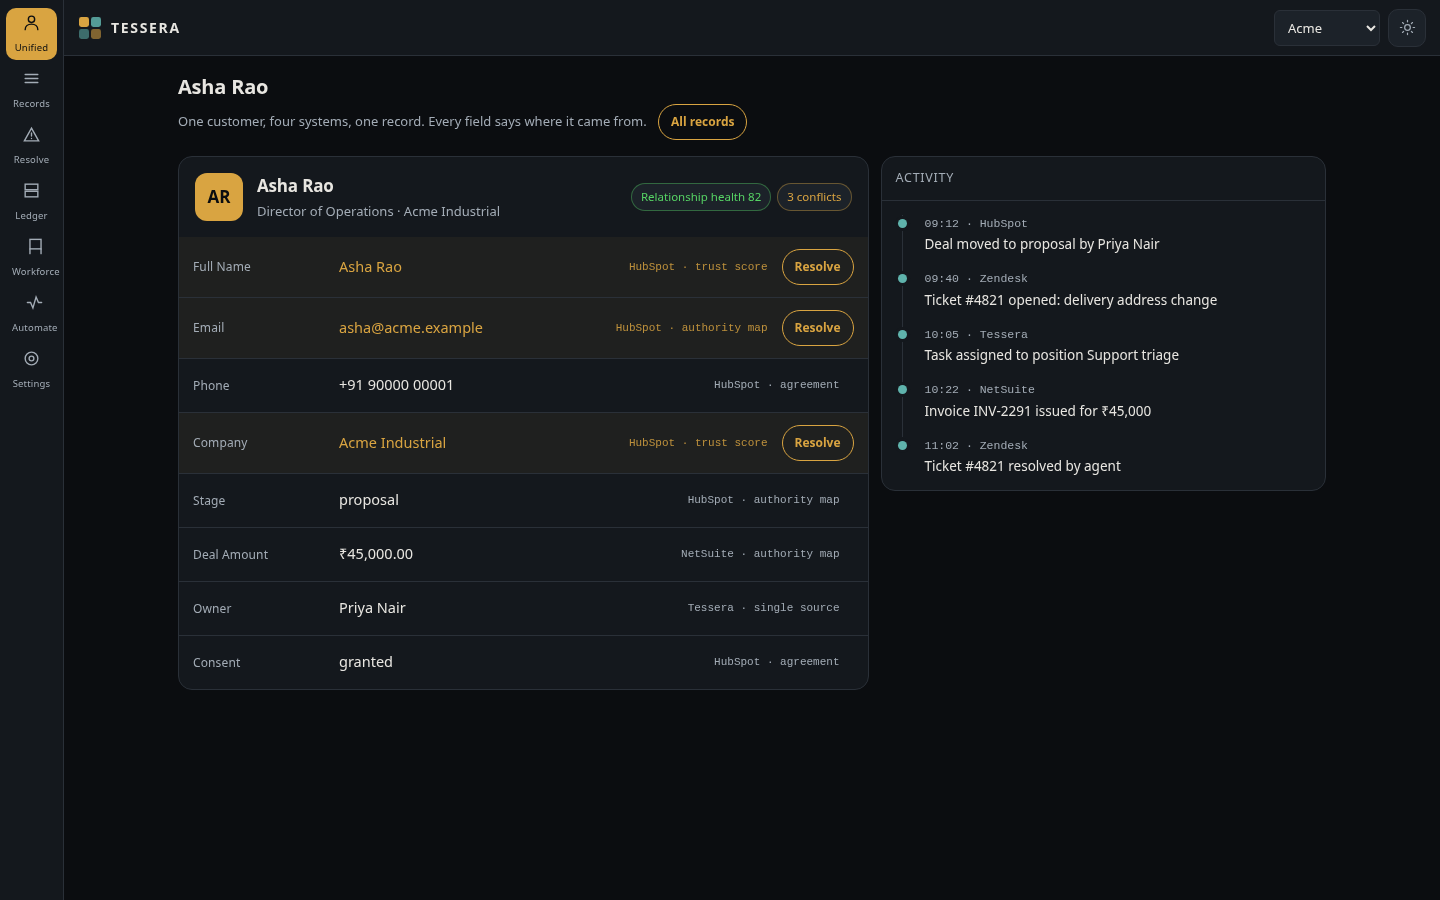
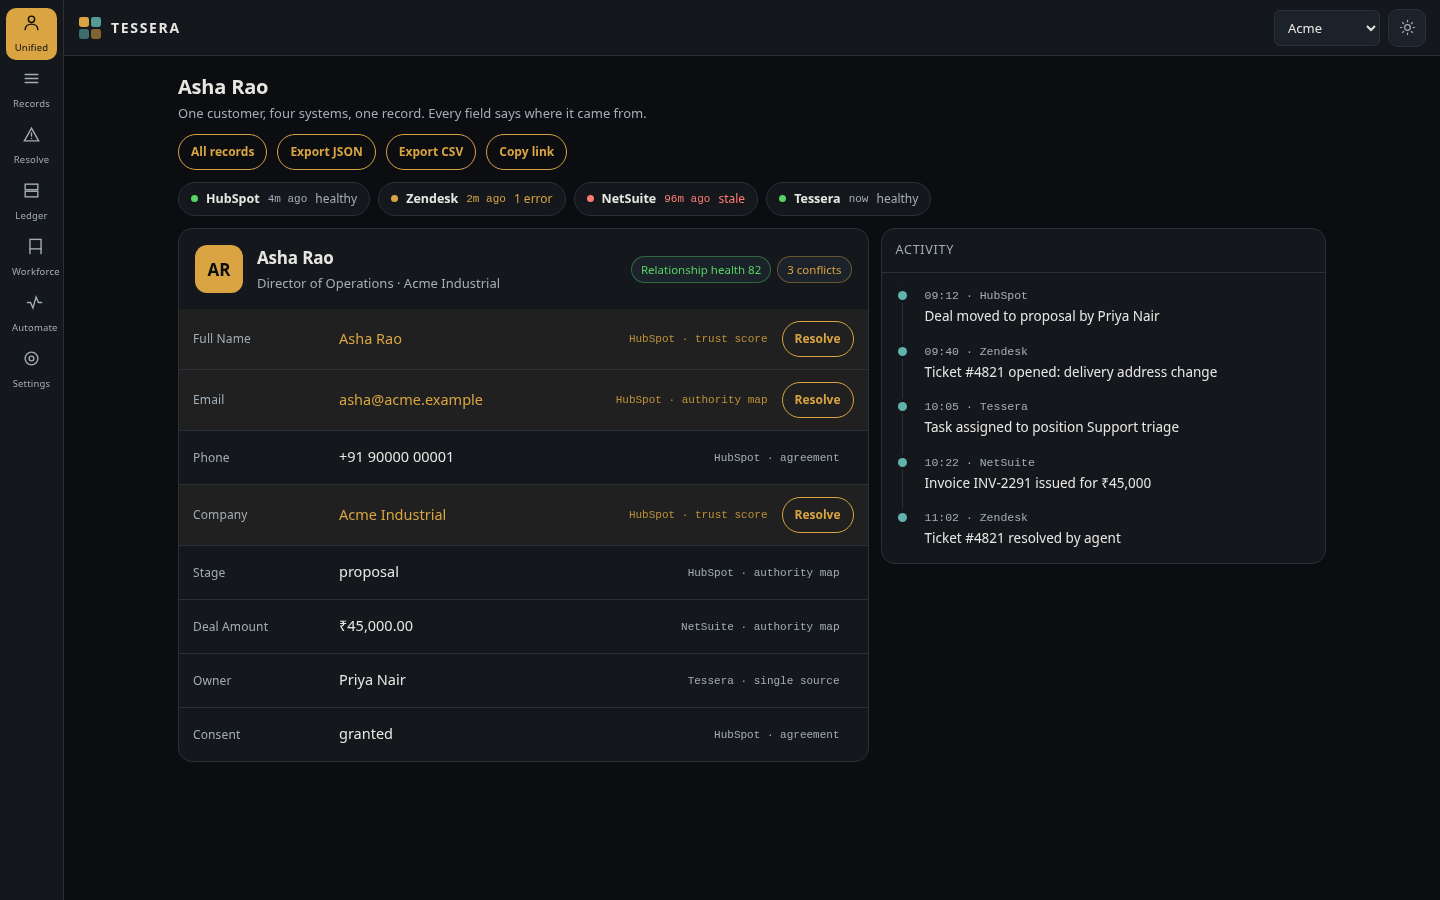
connector health and standing rules
- Connector strip above every record: last sync, error count, staleness, coloured
  green/amber/red. One row, and it is the row an operator looks at first.
- Always on any candidate turns a repeated decision into a standing rule applied
  to every record, listed on the Resolve screen, written to the ledger as
  rule.saved. Precedence: this record's choice, then your rule, then the engine.

Moved the record actions onto their own row - they were crowding the subtitle.

diff --git a/index.html b/index.html
@@ -82,6 +82,14 @@ button{font:inherit;color:inherit;background:none;border:0;cursor:pointer}
 .card .body{padding:14px}
 
 /* record head */
+.strip{display:flex;gap:8px;flex-wrap:wrap;margin-bottom:var(--gap)}
+.conn{display:inline-flex;align-items:center;gap:8px;padding:7px 12px;border-radius:999px;
+  border:1px solid var(--line);background:var(--surface);font-size:12px;color:var(--muted)}
+.conn b{color:var(--text);font-weight:600;font-size:12.5px}
+.conn .dot{width:7px;height:7px;border-radius:50%;background:var(--ok)}
+.conn.warn .dot{background:var(--accent)} .conn.warn{color:var(--accent)}
+.conn.bad .dot{background:var(--danger)} .conn.bad{color:var(--danger)}
+.conn time{font-family:var(--mono);font-size:11px}
 .record{display:flex;gap:14px;align-items:center;padding:16px}
 .avatar{width:48px;height:48px;border-radius:12px;background:var(--accent);color:var(--accent-ink);
   display:grid;place-items:center;font-weight:650;font-size:17px;flex:0 0 auto}
@@ -324,11 +332,15 @@ a{color:var(--accent)}
     <!-- UNIFIED ---------------------------------------------------------- -->
     <section class="view" id="unified" data-active>
       <h1 id="recordName">Asha Rao</h1>
-      <p class="sub">One customer, four systems, one record. Every field says where it came from.
-        <button class="rowaction" id="backToList" style="margin-left:8px">All records</button>
-        <button class="rowaction" id="exportJson" style="margin-left:6px">Export JSON</button>
-        <button class="rowaction" id="exportCsv" style="margin-left:6px">Export CSV</button>
-        <button class="rowaction" id="copyLink" style="margin-left:6px">Copy link</button></p>
+      <p class="sub">One customer, four systems, one record. Every field says where it came from.</p>
+      <div class="row" style="margin:-6px 0 12px">
+        <button class="rowaction" id="backToList">All records</button>
+        <button class="rowaction" id="exportJson">Export JSON</button>
+        <button class="rowaction" id="exportCsv">Export CSV</button>
+        <button class="rowaction" id="copyLink">Copy link</button>
+      </div>
+
+      <div class="strip" id="connectors" aria-label="Connected systems"></div>
 
       <div class="grid2">
         <div class="card">
@@ -398,6 +410,7 @@ a{color:var(--accent)}
         <button class="btn primary" id="resolveAll">Resolve all with the engine's rule</button>
         <span class="note" id="conflictSummary"></span>
       </div>
+      <div id="rulesBox"></div>
       <div id="conflictList"></div>
     </section>
 
@@ -572,11 +585,21 @@ function canonicalJSON(value) {
 
 /* ---- seed data: two systems that disagree ------------------------------- */
 const NODES = {
-  hubspot: { id: "hubspot", label: "HubSpot", kind: "sales", trust: 0.82, authority: { email: "authority", stage: "authority" } },
-  zendesk: { id: "zendesk", label: "Zendesk", kind: "support", trust: 0.61, authority: {} },
-  netsuite:{ id: "netsuite", label: "NetSuite", kind: "erp", trust: 0.74, authority: { amount_minor: "authority" } },
-  native:  { id: "native", label: "Tessera", kind: "native", trust: 0.90, authority: {} },
+  hubspot: { id: "hubspot", label: "HubSpot", kind: "sales", trust: 0.82, authority: { email: "authority", stage: "authority" },
+             lastSync: 4, errors: 0 },
+  zendesk: { id: "zendesk", label: "Zendesk", kind: "support", trust: 0.61, authority: {},
+             lastSync: 2, errors: 1 },
+  netsuite:{ id: "netsuite", label: "NetSuite", kind: "erp", trust: 0.74, authority: { amount_minor: "authority" },
+             lastSync: 96, errors: 0 },
+  native:  { id: "native", label: "Tessera", kind: "native", trust: 0.90, authority: {},
+             lastSync: 0, errors: 0 },
 };
+
+function connectorState(node) {
+  if (node.errors > 0) return { state: "warn", label: `${node.errors} error${node.errors > 1 ? "s" : ""}` };
+  if (node.lastSync > 60) return { state: "bad", label: "stale" };
+  return { state: "ok", label: "healthy" };
+}
 
 const RECORDS = [
   { id: "c1", name: "Asha Rao", role: "Director of Operations", company: "Acme Industrial", health: 82,
@@ -775,6 +798,7 @@ const DEFAULT_STATE = {
   view: { filter: "all", sort: "name" },
   savedViews: {},
   customRecords: [],
+  rules: {},             // field -> node, applied to every record
   resolved: {},          // "recordId|field" -> chosen node
   ledger: null,          // [{seq, action, actor, payload, hash, prev}]
   theme: "dark",
@@ -866,16 +890,24 @@ function currentValue(field) {
   const candidates = RECORD[field];
   const resolution = resolveField(field, candidates, Object.fromEntries(
     Object.entries(candidates).map(([node]) => [node, NODES[node].authority[field] || "bidirectional"])));
+  // order: a choice for this record, then your standing rule, then the engine
   const chosen = state.resolved[state.selected + "|" + field];
   if (chosen && candidates[chosen] !== undefined) {
     return { value: candidates[chosen], node: chosen, rule: "chosen by you" };
+  }
+  const rule = (state.rules || {})[field];
+  if (rule && candidates[rule] !== undefined) {
+    return { value: candidates[rule], node: rule, rule: "your standing rule" };
   }
   return { value: resolution.value, node: resolution.node, rule: resolution.rule };
 }
 
 function isConflict(field) {
   const values = new Set(Object.values(RECORD[field]).map(v => canonicalJSON(v)));
-  return values.size > 1 && !state.resolved[state.selected + "|" + field];
+  if (values.size <= 1) return false;
+  if (state.resolved[state.selected + "|" + field]) return false;
+  const rule = (state.rules || {})[field];
+  return !(rule && RECORD[field][rule] !== undefined);
 }
 
 function formatValue(field, value) {
@@ -990,6 +1022,20 @@ function renderFields() {
   chip.className = count ? "chip warn" : "chip ok";
 }
 
+function renderConnectors() {
+  $("#connectors").innerHTML = Object.values(NODES).map(node => {
+    const status = connectorState(node);
+    const ago = node.lastSync === 0 ? "now" : `${node.lastSync}m ago`;
+    return `<span class="conn ${status.state === "ok" ? "" : status.state}"
+      title="${node.label}: last sync ${ago}, ${node.errors} error(s)">
+      <span class="dot" aria-hidden="true"></span>
+      <b>${node.label}</b>
+      <time>${ago}</time>
+      <span>${status.label}</span>
+    </span>`;
+  }).join("");
+}
+
 function renderTimeline() {
   const host = $("#timeline");
   host.innerHTML = ACTIVITY.map(item => `
@@ -1042,6 +1088,25 @@ async function resolveAll() {
   });
 }
 
+function renderRules() {
+  const rules = state.rules || {};
+  const fields = Object.keys(rules);
+  const box = $("#rulesBox");
+  if (!fields.length) { box.innerHTML = ""; return; }
+  box.innerHTML = `<div class="item" style="margin-bottom:12px">
+    <div class="top"><b>Your standing rules</b><span class="chip">applied to every record</span></div>
+    ${fields.map(field => `<div class="row" style="margin:6px 0">
+      <span class="mono">${field.replace(/_/g, " ")}</span>
+      <span class="chip ok">always ${NODES[rules[field]].label}</span>
+      <button class="btn small ghost" data-unrule="${field}">Remove</button>
+    </div>`).join("")}
+  </div>`;
+  $$("[data-unrule]", box).forEach(button => button.onclick = () => {
+    delete state.rules[button.dataset.unrule];
+    save(); renderAll(); toast("Rule removed - the engine decides again");
+  });
+}
+
 function renderConflicts() {
   const host = $("#conflictList");
   const fields = Object.keys(RECORD).filter(isConflict);
@@ -1076,6 +1141,7 @@ function renderConflicts() {
           <span class="chip ${isCurrent ? "ok" : "warn"}">${isCurrent ? "current" : "changes"}</span>
           <span class="mono">${NODES[node].label} · trust ${NODES[node].trust.toFixed(2)}</span>
           <button class="btn small" data-pick="${field}|${node}">${isCurrent ? "Keep" : "Change to this"}</button>
+          <button class="btn small ghost" data-always="${field}|${node}" title="Use this system for this field on every record">Always</button>
         </div>`;
       }).join("")}
       <div class="note">The engine would take <b>${NODES[resolution.node].label}</b> by ${resolution.rule}.</div>
@@ -1085,6 +1151,23 @@ function renderConflicts() {
     btn.onclick = () => {
       const [field, node] = btn.dataset.pick.split("|");
       resolveFieldTo(field, node);
+    };
+  });
+  $$("[data-always]", host).forEach(btn => {
+    btn.onclick = async () => {
+      const [field, node] = btn.dataset.always.split("|");
+      const before = { ...(state.rules || {}) };
+      state.rules = { ...(state.rules || {}), [field]: node };
+      save();
+      await appendEvent("rule.saved", "human", { field, source: node });
+      renderAll();
+      toast(`Rule saved: ${field.replace(/_/g, " ")} always from ${NODES[node].label}`, async () => {
+        state.rules = before;
+        save();
+        await appendEvent("rule.removed", "human", { field });
+        renderAll();
+        toast("Rule removed");
+      });
     };
   });
 }
@@ -1215,8 +1298,8 @@ function renderAll() {
   $("#recordSubtitle").textContent = `${record.role} · ${record.company}`;
   $("#recordAvatar").textContent = record.name.split(" ").map(p => p[0]).join("").slice(0, 2);
   $("#healthChip").textContent = `Relationship health ${record.health}`;
-  renderRecords();
-  renderFields(); renderTimeline(); renderConflicts(); renderLedger(); renderSeats();
+  renderRecords(); renderConnectors();
+  renderFields(); renderTimeline(); renderRules(); renderConflicts(); renderLedger(); renderSeats();
   renderRouting(); renderWorkflows();
   $("#storageNote").textContent =
     "Preferences and the demo ledger are stored in this browser only (localStorage). Clearing site data resets them.";

diff --git a/ENHANCEMENTS.md b/ENHANCEMENTS.md
@@ -16,9 +16,9 @@ Ordered by what a person would notice first.
 | 3 | ~~**Bulk resolve**~~ — apply one rule to every conflict of the same kind | **Shipped in 1.3.0.** One button, engine's rule, undoable | done |
 | 4 | ~~**Field history popover**~~ — click any value, see every write with actor and time | **Shipped in 1.1.0.** The ledger is the differentiator; hiding it behind a tab wasted it | done |
 | 5 | ~~**Conflict preview before merge**~~ — each candidate is marked **current** or **changes**, shipped in 1.5.0 | Turns a guess into a decision | done |
-| 6 | **Connector status strip** — per system: last sync, error count, staleness | The one screen an operator actually needs at 9am | S |
+| 6 | ~~**Connector status strip**~~ — last sync, error count and staleness per system, shipped in 1.6.0 | The one screen an operator actually needs at 9am | done |
 | 7 | ~~**CSV import with dry run**~~ — paste or choose a file, auto-mapped columns, ready/rejected counts, one-press rollback, shipped in 1.5.0 | The single most requested feature of every CRM migration | done |
-| 8 | **Saved resolver rules** — "always take NetSuite for amounts" as a stored policy | Repeated decisions should become policy, not habit | M |
+| 8 | ~~**Saved resolver rules**~~ — an **Always** button on any candidate, applied to every record, shipped in 1.6.0 | Repeated decisions should become policy, not habit | done |
 | 9 | ~~**Export the unified record**~~ — JSON and CSV shipped in 1.4.0. **Printable one-pager** still open | People need to send the record to somebody who is not in the app | S |
 | 10 | **Keyboard-first command palette** — `⌘K` with actions, not just navigation | The power users are the ones who will keep it open | S |
 | 11 | ~~**Deep links**~~ — `#unified/c4` and a Copy link button, shipped in 1.4.0 | Makes the app shareable in Slack, which is how tools spread | done |

diff --git a/README.md b/README.md
@@ -39,8 +39,8 @@ shows **where every value came from**, and records the whole thing in a hash cha
 | Screen | What it does |
 |---|---|
 | **Records** | Ten customers, one row each. `/` searches, filter by conflicts, sort by health, save the view you use every morning, and **import a CSV** with a dry run and a one-press rollback. |
-| **Unified** | One record. Every field names the system it came from and the rule that chose it. Click any value for its write history; export the record as JSON or CSV; copy a link that opens it. |
-| **Resolve** | Both values, both trust scores, the rule the engine would apply, and whether each candidate is the **current** value or a **change**. Choose one, or resolve all. Every choice is logged and undoable. |
+| **Unified** | One record, with a **connector strip** above it: last sync, error count and staleness per system. Every field names the system it came from and the rule that chose it. Click any value for its write history; export the record as JSON or CSV; copy a link that opens it. |
+| **Resolve** | Both values, both trust scores, the rule the engine would apply, and whether each candidate is the **current** value or a **change**. Choose one, resolve all, or press **Always** to make it a standing rule. Every choice is logged and undoable. |
 | **Ledger** | Every event, SHA-256 chained. **Verify chain** recomputes it locally. **Tamper** proves the verification works. An undo is a new event, never a deleted one. |
 | **Workforce** | Work goes to a position, not a person. The router shows its term-by-term arithmetic. Escalation produces a signed handoff packet. |
 | **Automate** | A workflow written by an agent is a proposal. The run button is disabled until a person approves it. |

diff --git a/CHANGELOG.md b/CHANGELOG.md
@@ -1,5 +1,19 @@
 # Changelog
 
+## [1.6.0] - 2026-11-14
+
+### Added
+
+- **Connector strip.** Above every record: each system with its last sync, error count and staleness, coloured green,
+  amber or red. One row, and it is the row an operator actually looks at first.
+- **Saved resolver rules.** **Always** on any candidate turns a repeated decision into a standing rule, applied to
+  every record, listed on the Resolve screen with a Remove button, and written to the ledger as `rule.saved`.
+  Precedence is: a choice for this record, then your rule, then the engine's.
+
+### Changed
+
+- The record actions (All records, Export, Copy link) moved to their own row; they were crowding the subtitle.
+
 ## [1.5.0] - 2026-11-14
 
 ### Added
